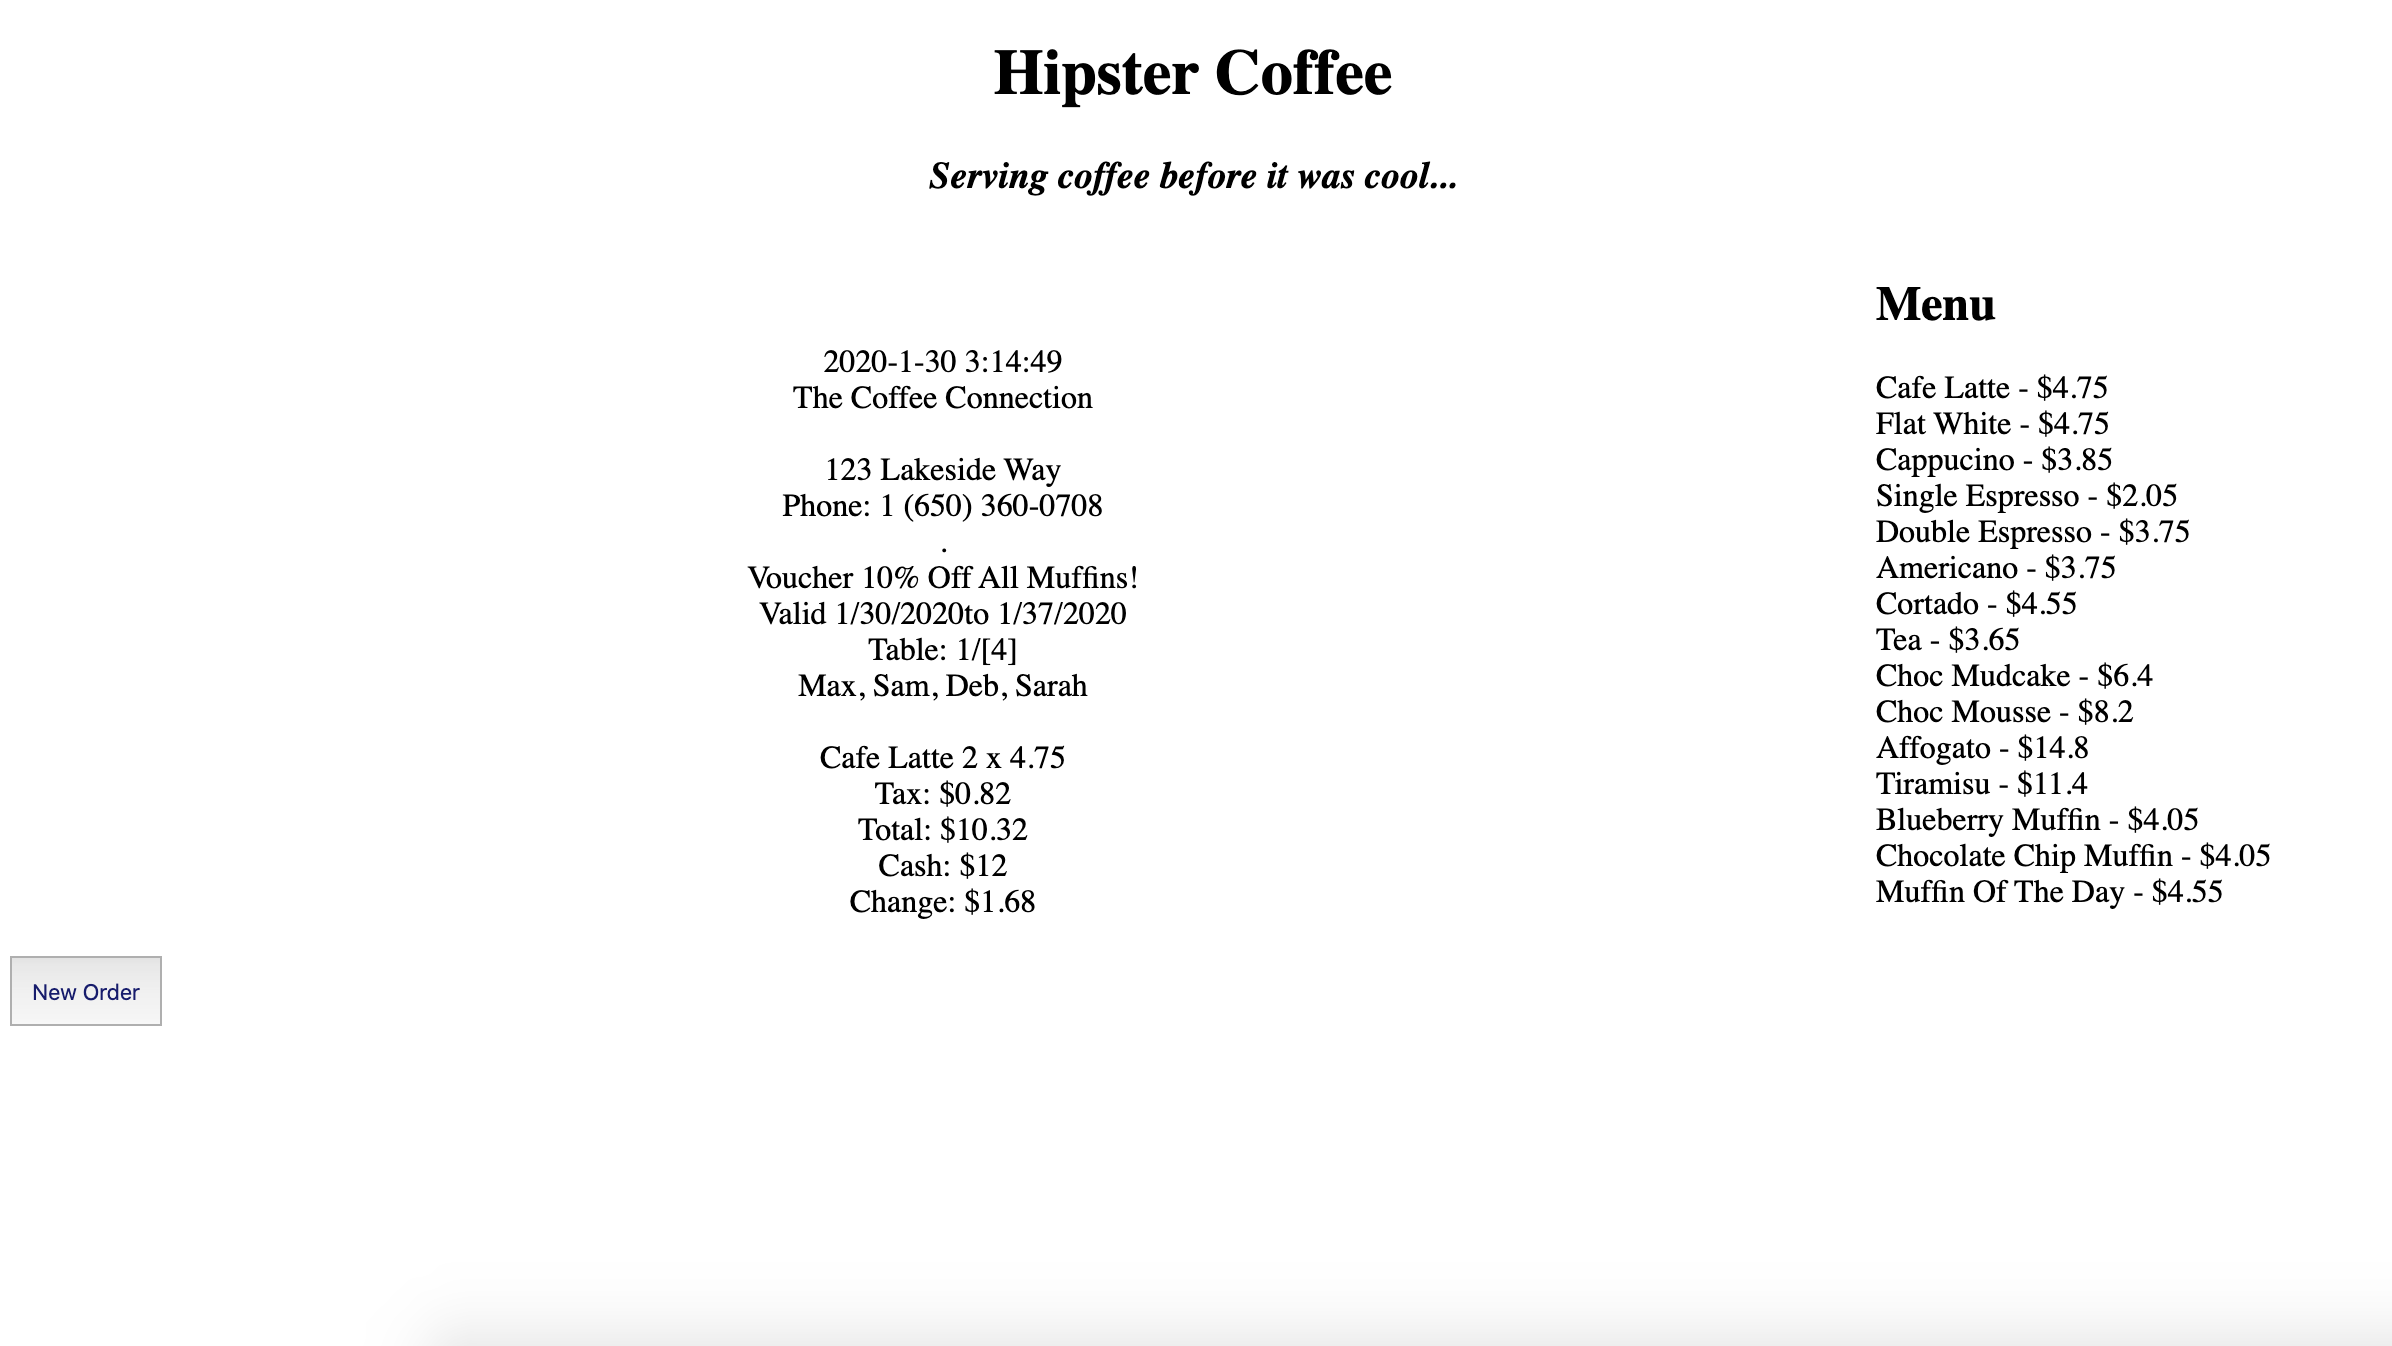
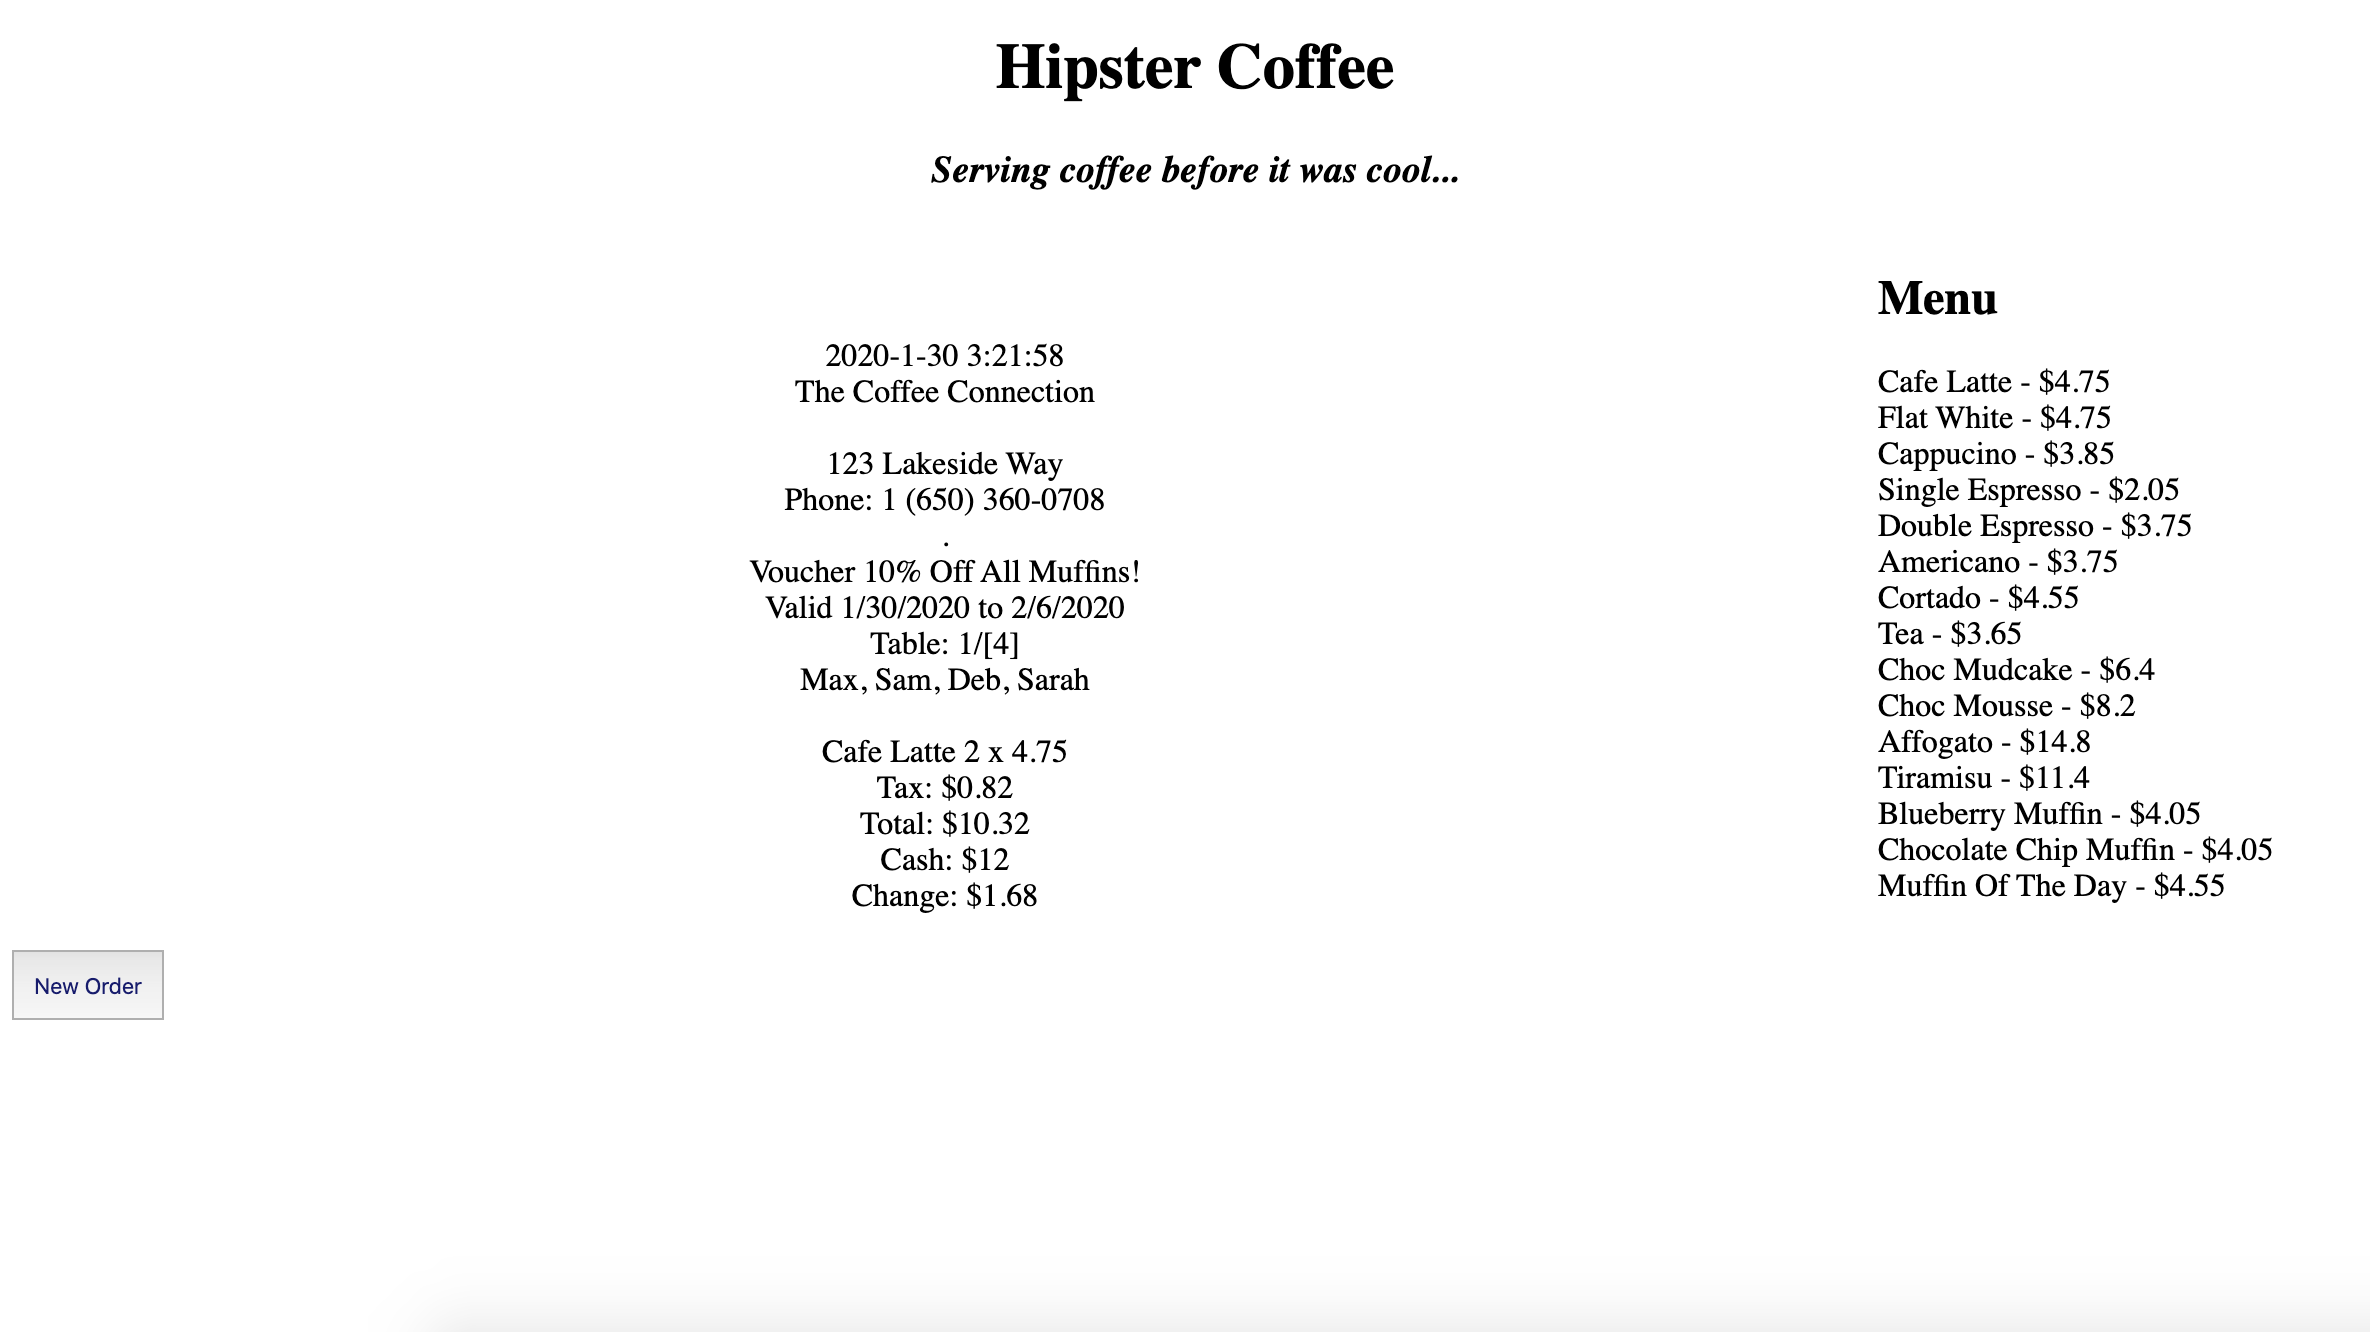
PIcture fix

diff --git a/src/Receipt.js b/src/Receipt.js
@@ -14,7 +14,7 @@ constructor(order = new Order) {
   receiptHeader(){
     let today = new Date();
     let date = (today.getMonth()+1)+'/'+today.getDate()+'/'+today.getFullYear()
-    let endDate = (today.getMonth()+1)+'/'+(today.getDate()+7)+'/'+today.getFullYear()
+    let endDate = (today.getMonth())+'/'+(today.getDate()+7)+'/'+today.getFullYear()
     let header =
     (this.getDate()+ "<br />"+
     "The Coffee Connection <br /><br />"+
@@ -22,7 +22,7 @@ constructor(order = new Order) {
     "Phone: 1 (650) 360-0708 <br />"+
     ". <br />"+
     "Voucher 10% Off All Muffins!<br>"+
-    "Valid "+`${date}`+"to "+`${endDate}`+"<br>"+
+    "Valid "+`${date}`+" to "+`${endDate}`+"<br>"+
     "Table: 1/[4] <br>" +
     "Max, Sam, Deb, Sarah<br><br>"
 
